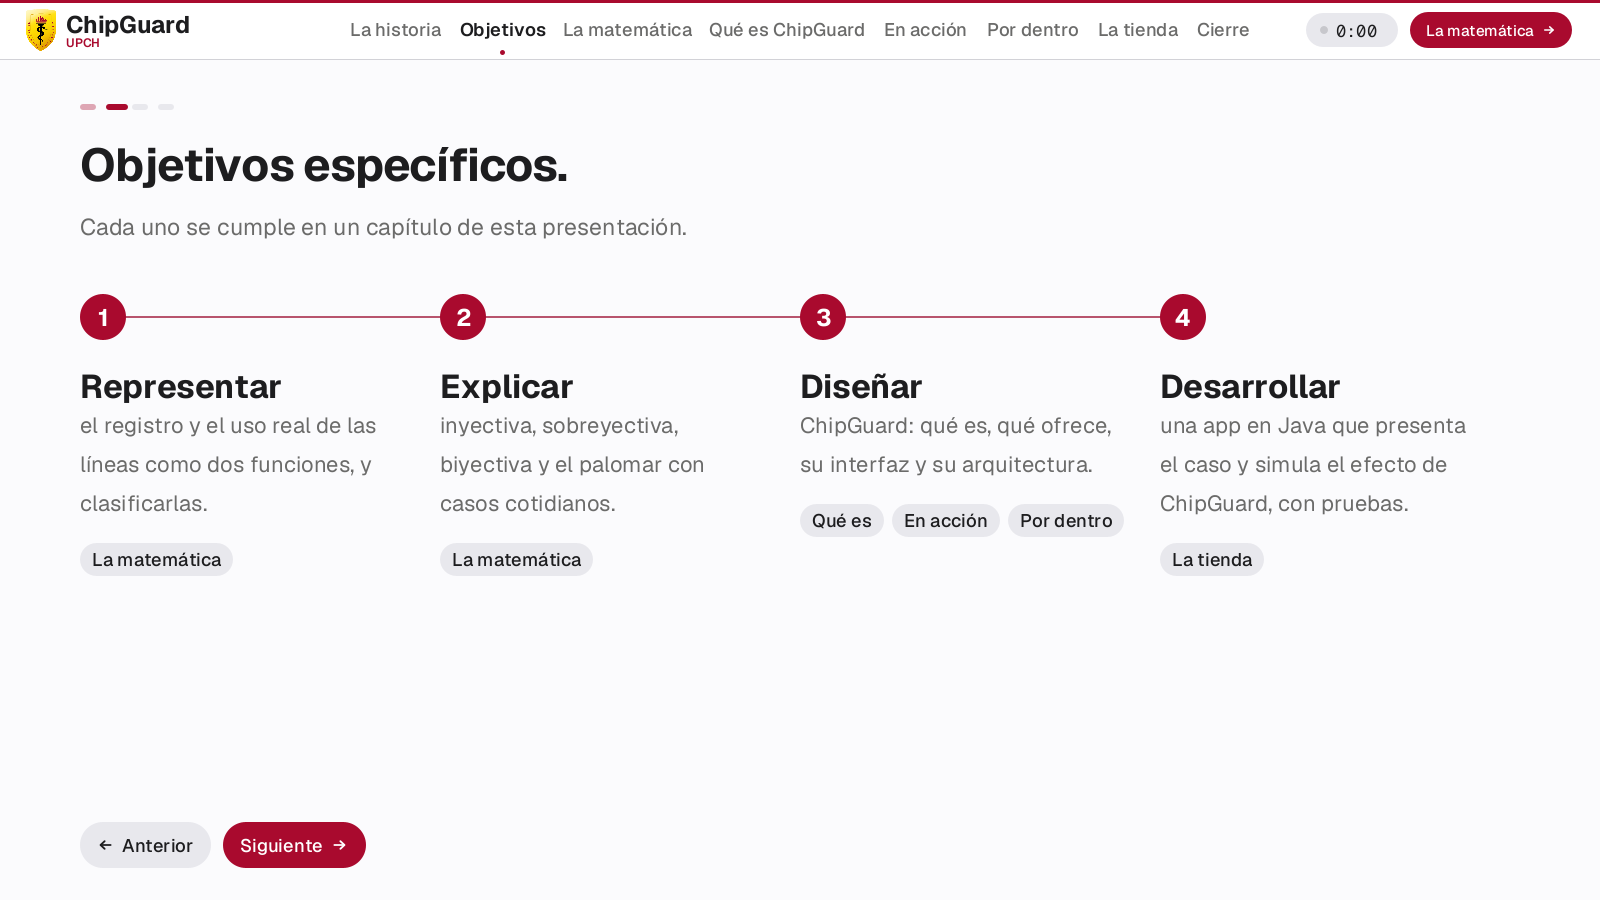
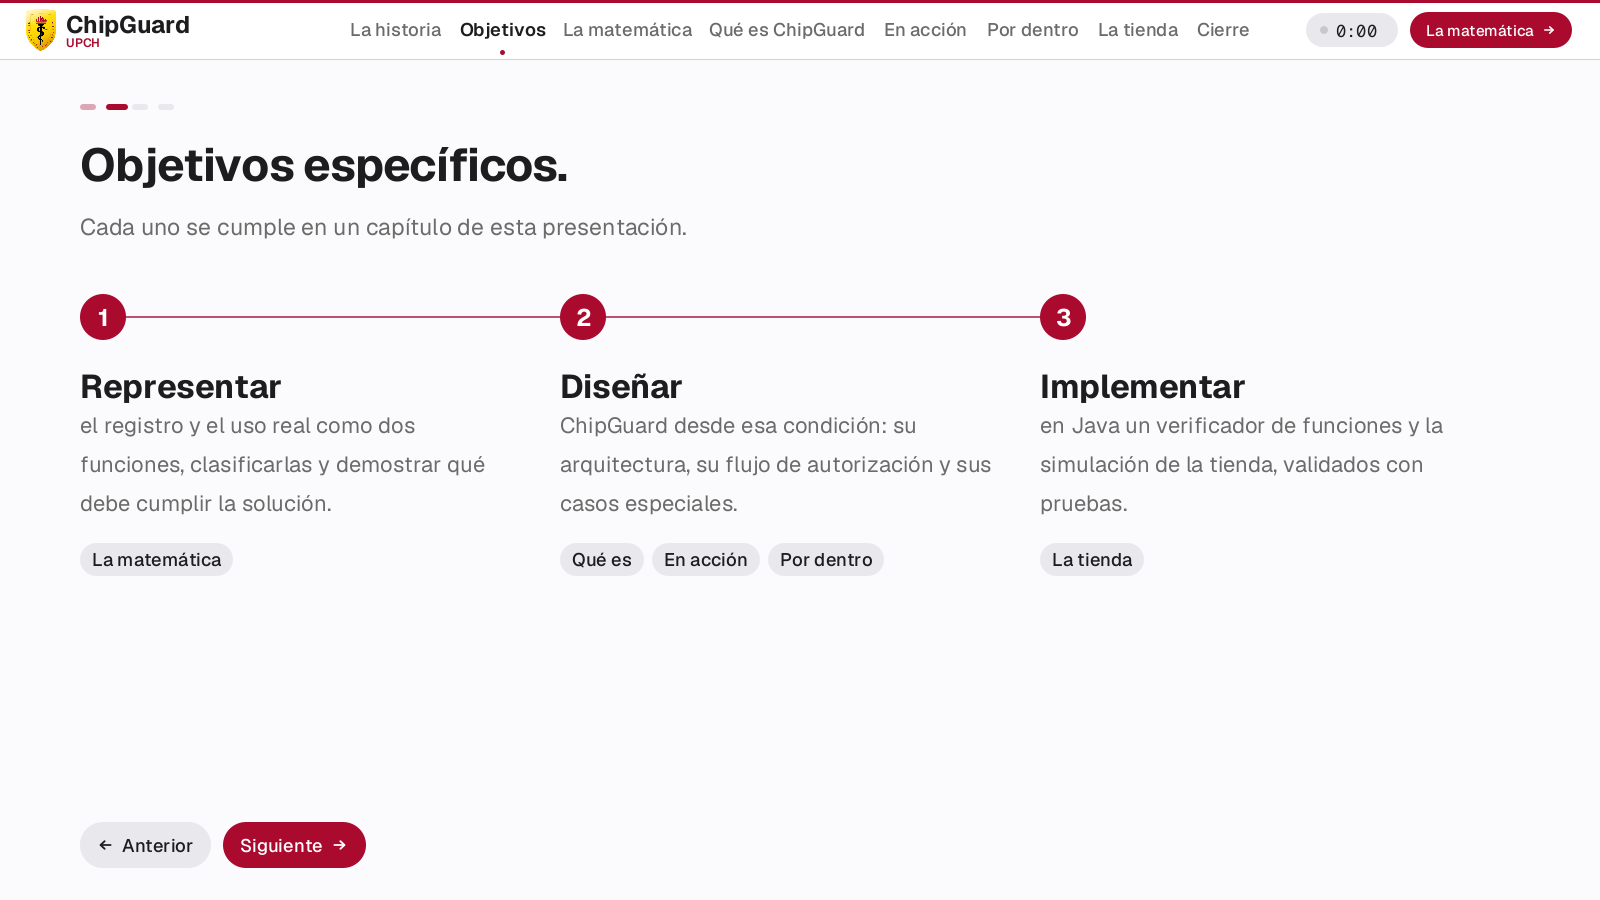
fix(objetivos): tres específicos OE1-OE3 como el informe
El formato del curso pide 3 objetivos específicos; la app mostraba 4.

diff --git a/src/simuchip/ui/PanelObjetivos.java b/src/simuchip/ui/PanelObjetivos.java
@@ -11,7 +11,7 @@ import java.util.List;
 
 /**
  * Capítulo 2: el objetivo del trabajo y su marco teórico, como en el informe (§3 y §4). Una idea por
- * pantalla: el objetivo general en sus tres verbos, los cuatro específicos como un recorrido por la
+ * pantalla: el objetivo general en sus tres verbos, los tres específicos (OE1-OE3) como un recorrido por la
  * exposición y las cinco definiciones del curso en dos escenas, cada una con su diagrama.
  */
 public final class PanelObjetivos extends PanelEscenas {
@@ -26,12 +26,11 @@ public final class PanelObjetivos extends PanelEscenas {
     private static final Color[] TINTE_GENERAL = {Tema.NARANJA_SUAVE, Tema.ROJO_SUAVE, Tema.VERDE_SUAVE};
     private static final Color[] TINTA_GENERAL = {Tema.NARANJA_TEXTO, Tema.ROJO_OSCURO, Tema.VERDE};
 
-    /** Verbo, qué se hace y el capítulo donde se cumple. Del informe, §3.2. */
+    /** Verbo, qué se hace y el capítulo donde se cumple. Del informe, §4.2 (OE1-OE3). */
     static final String[][] ESPECIFICOS = {
-        {"Representar", "el registro y el uso real de las líneas como dos funciones, y clasificarlas.", "La matemática"},
-        {"Explicar", "inyectiva, sobreyectiva, biyectiva y el palomar con casos cotidianos.", "La matemática"},
-        {"Diseñar", "ChipGuard: qué es, qué ofrece, su interfaz y su arquitectura.", "Qué es · En acción · Por dentro"},
-        {"Desarrollar", "una app en Java que presenta el caso y simula el efecto de ChipGuard, con pruebas.", "La tienda"}
+        {"Representar", "el registro y el uso real como dos funciones, clasificarlas y demostrar qué debe cumplir la solución.", "La matemática"},
+        {"Diseñar", "ChipGuard desde esa condición: su arquitectura, su flujo de autorización y sus casos especiales.", "Qué es · En acción · Por dentro"},
+        {"Implementar", "en Java un verificador de funciones y la simulación de la tienda, validados con pruebas.", "La tienda"}
     };
 
     /** Nombre, fórmula (solo con símbolos que Geist dibuja) y la frase en palabras. Del informe, §4. */
@@ -112,7 +111,7 @@ public final class PanelObjetivos extends PanelEscenas {
         }
     }
 
-    /** Los cuatro objetivos como un recorrido: una línea que avanza y un paso por objetivo. */
+    /** Los tres objetivos específicos como un recorrido: una línea que avanza y un paso por objetivo. */
     private void especificos(Graphics2D g, Rectangle a, double t) {
         int n = ESPECIFICOS.length;
         int col = a.width / n;

diff --git a/test/simuchip/ui/PruebasDisenio.java b/test/simuchip/ui/PruebasDisenio.java
@@ -38,7 +38,7 @@ public final class PruebasDisenio {
         igual("La matemática", app.nombreCapitulo(2), "la matemática sigue después");
         igual(4, app.objetivos().cantidadEscenas(), "cuatro escenas: objetivo, específicos y marco teórico en dos partes");
         igual(3, PanelObjetivos.GENERAL.length, "el objetivo general se parte en sus tres verbos");
-        igual(4, PanelObjetivos.ESPECIFICOS.length, "los 4 objetivos específicos del informe");
+        igual(3, PanelObjetivos.ESPECIFICOS.length, "los 3 objetivos específicos del informe (OE1-OE3), como pide el formato");
         igual(5, PanelObjetivos.CONCEPTOS.length, "cinco conceptos del marco teórico");
 
         titulo("Letra para proyector");
